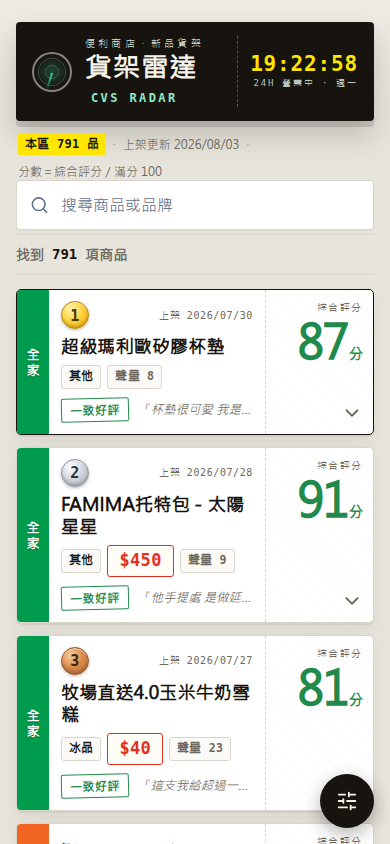
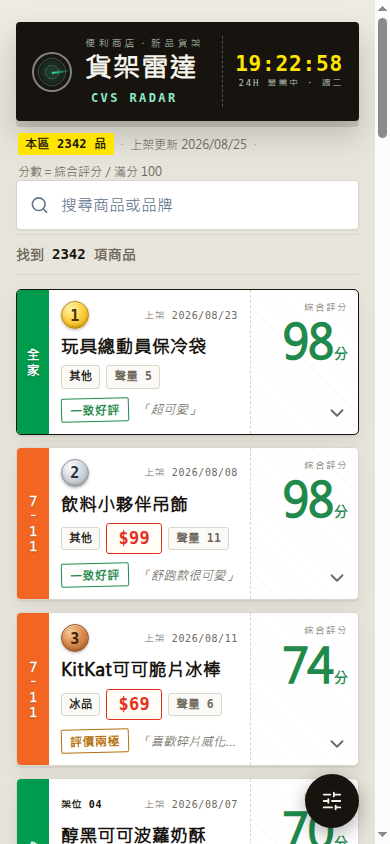
docs: reshoot the screenshots and fix the category list they exposed
The three README screenshots were taken 2026-08-03 and showed 791 products.
Reshot from a production build of the current tree (2,342 products), with the
header clock frozen so the images aren't timestamped.

The product-detail shot is the one that actually needed it: that card was
redesigned. It used to be a prose author verdict above a two-column 大家喜歡的點 /
需要留意的點 table; it is now a numbered per-review summary (SUMMARY 01..06), a
flat icon-marked EVIDENCE list, and one PTT link per source thread. Captions in
both READMEs updated to describe what the card now shows.

Reshooting also caught an error in the previous docs commit. The category filter
has two layers: product_category_labels.csv carries 11 categories, and
web/lib/data.ts's categoryGroups folds them into the 7 chips a visitor actually
sees (正餐 = 便當+鹹食+泡麵, 飲料 = 飲料+乳品, 其他 = 其他+周邊). The last commit
replaced the README's user-facing list with the internal 11 -- but that bullet is
written from the reader's side of the screen and has to name the chips. Restored
to the UI list with the labelling taxonomy noted in parentheses, and CONTEXT.md
now documents both layers explicitly instead of only one.

Claude-Session: https://claude.ai/code/session_018R2zVGQQzYS1qQSNMnBzRS

diff --git a/README.md b/README.md
@@ -29,18 +29,18 @@
 <p align="center">
   <img src="docs/screenshots/app-mobile.png" width="260" alt="手機版首頁：貨架標題列、搜尋、排行卡片與浮動篩選鈕" />
   &nbsp;&nbsp;
-  <img src="docs/screenshots/product-detail.png" width="520" alt="展開後的商品卡：作者評價、留言整理出的優缺點與原文連結" />
+  <img src="docs/screenshots/product-detail.png" width="560" alt="展開後的商品卡：逐篇編號的作者評價摘要、正負向評價重點與原文連結" />
 </p>
 
 <p align="center">
-  手機優先的卡片式排行；展開任一張卡，就能讀作者評價、留言整理出的優缺點與原文連結。
+  手機優先的卡片式排行；展開任一張卡，就能讀逐篇編號的作者評價摘要、正負向的評價重點，以及每一則的 PTT 原文連結。
 </p>
 
 ## 要解決的問題
 
 超商新品的討論散在不同文章與推文裡。單看一篇心得會被作者口味帶著走，直接翻推文又得自己判斷反諷、離題回覆和樣本數夠不夠。CVS Radar 把這些訊號整理成商品層級、可以互相比較的資訊：
 
-- **今天想吃什麼？** 以便當、飲料、甜點、麵包、冰品、鹹食、零食、泡麵、乳品與周邊快速縮小範圍。
+- **今天想吃什麼？** 以正餐、甜點、冰品、飲料、麵包、零食快速縮小範圍。（標記層分得更細——便當、鹹食、泡麵、乳品、周邊等 11 類——前端再收攏成這 6 個加「其他」。）
 - **值得買嗎？** 收合的卡片就顯示推薦分、共識、聲量、日期與價格。
 - **大家為什麼喜歡或不喜歡？** 展開後依序讀作者評價、留言評價與原文。
 - **這個分數可信嗎？** 樣本太少的商品**不顯示**推薦分與百分比分布。約四分之一的商品因此留白——寧可不說，也不給一個看起來很精確、其實只有三個人講過的數字。

diff --git a/README.en.md b/README.en.md
@@ -36,12 +36,13 @@ running live.
 <p align="center">
   <img src="docs/screenshots/app-mobile.png" width="260" alt="Mobile home: shelf header, search, ranked cards and a floating filter button" />
   &nbsp;&nbsp;
-  <img src="docs/screenshots/product-detail.png" width="520" alt="Expanded product card: author verdict, pros and cons distilled from comments, links to the source thread" />
+  <img src="docs/screenshots/product-detail.png" width="560" alt="Expanded product card: numbered per-review summaries, positive and negative evidence, links to each source thread" />
 </p>
 
 <p align="center">
-  A mobile-first ranked card list. Expand any card to read the author's verdict, the pros
-  and cons distilled from comments, and links back to the original thread.
+  A mobile-first ranked card list. Expand any card to read a numbered summary of every
+  review, the positive and negative points drawn from comments, and a link back to each
+  original thread.
 </p>
 
 ## The problem
@@ -51,8 +52,9 @@ replies. Reading a single review means inheriting one person's palate; reading t
 means judging sarcasm, off-topic tangents and sample size yourself. CVS Radar consolidates
 those signals into comparable, product-level information:
 
-- **What should I eat today?** Narrow down by bento, dessert, ice cream, drinks, bread or
-  snacks.
+- **What should I eat today?** Narrow down by hot food, dessert, ice cream, drinks, bread
+  or snacks. (The labelling layer is finer-grained — 11 categories including bento, instant
+  noodles, dairy and merchandise — which the frontend folds into these six plus "other".)
 - **Is it worth buying?** The collapsed card already shows score, consensus, volume, date
   and price.
 - **Why do people like or dislike it?** Expand to read the author's verdict, then comment

diff --git a/CONTEXT.md b/CONTEXT.md
@@ -11,9 +11,13 @@
 - **聲量**:商品被討論的量(文章+推文數)。
 - **作者評價 vs 留言評價**:兩條獨立的訊號來源——發文作者的心得評價,
   與推文/留言的情緒;展開卡片時依序呈現,不混算。
-- **意圖分類**:使用者查詢的分類。目前 11 類:便當/飲料/甜點/麵包/冰品/
-  鹹食/零食/周邊/泡麵/乳品/其他。類別名稱是 load-bearing 的,
-  `cvs_radar/scoring/identity.py` 用它們辨認「商品名稱欄位其實只是個類別詞」。
+- **意圖分類**:兩層,別搞混。
+  - **標記層 11 類**(`product_category_labels.csv` 存的值):便當/飲料/甜點/
+    麵包/冰品/鹹食/零食/周邊/泡麵/乳品/其他。這些名稱是 load-bearing 的,
+    `cvs_radar/scoring/identity.py` 用它們辨認「商品名稱欄位其實只是個類別詞」。
+  - **UI 篩選 7 組**(`web/lib/data.ts` 的 `categoryGroups`):正餐/甜點/冰品/
+    飲料/麵包/零食/其他。正餐=便當+鹹食+泡麵,飲料=飲料+乳品,
+    其他=其他+周邊。**訪客只看得到這 7 個。**
 - **品牌 chips**:UI 上可交叉篩選的品牌標籤。
 - **通路**:7-11、全家、萊爾富、OK、美聯社及其他。
 - **公開快照**:去識別化的靜態資料(2026-08-25 為 2,342 項商品,語料涵蓋
